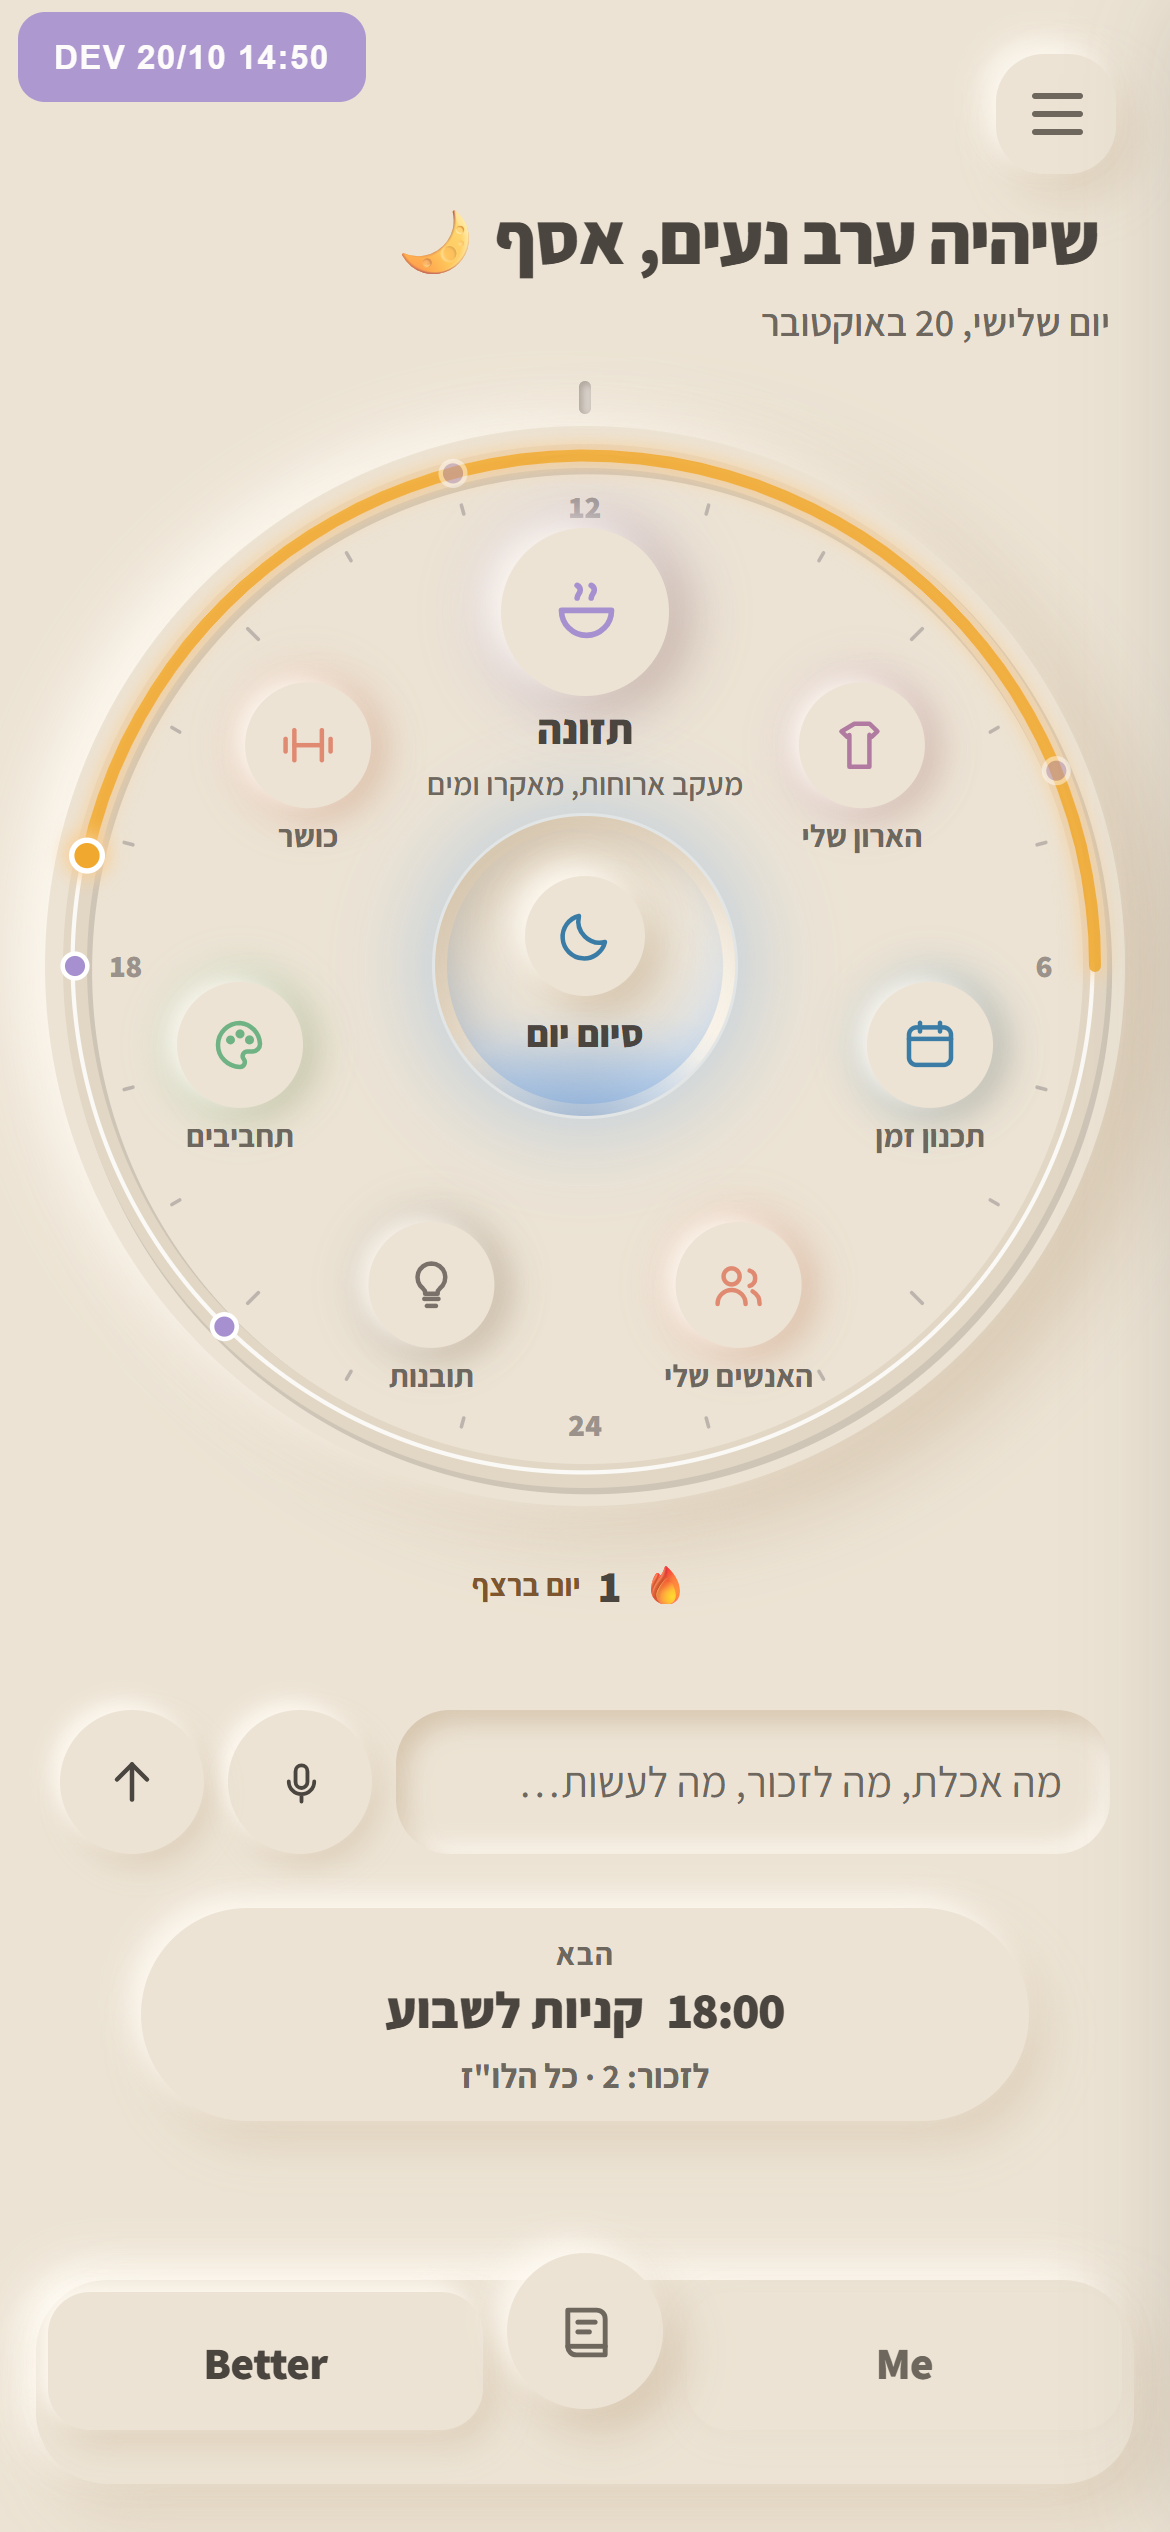
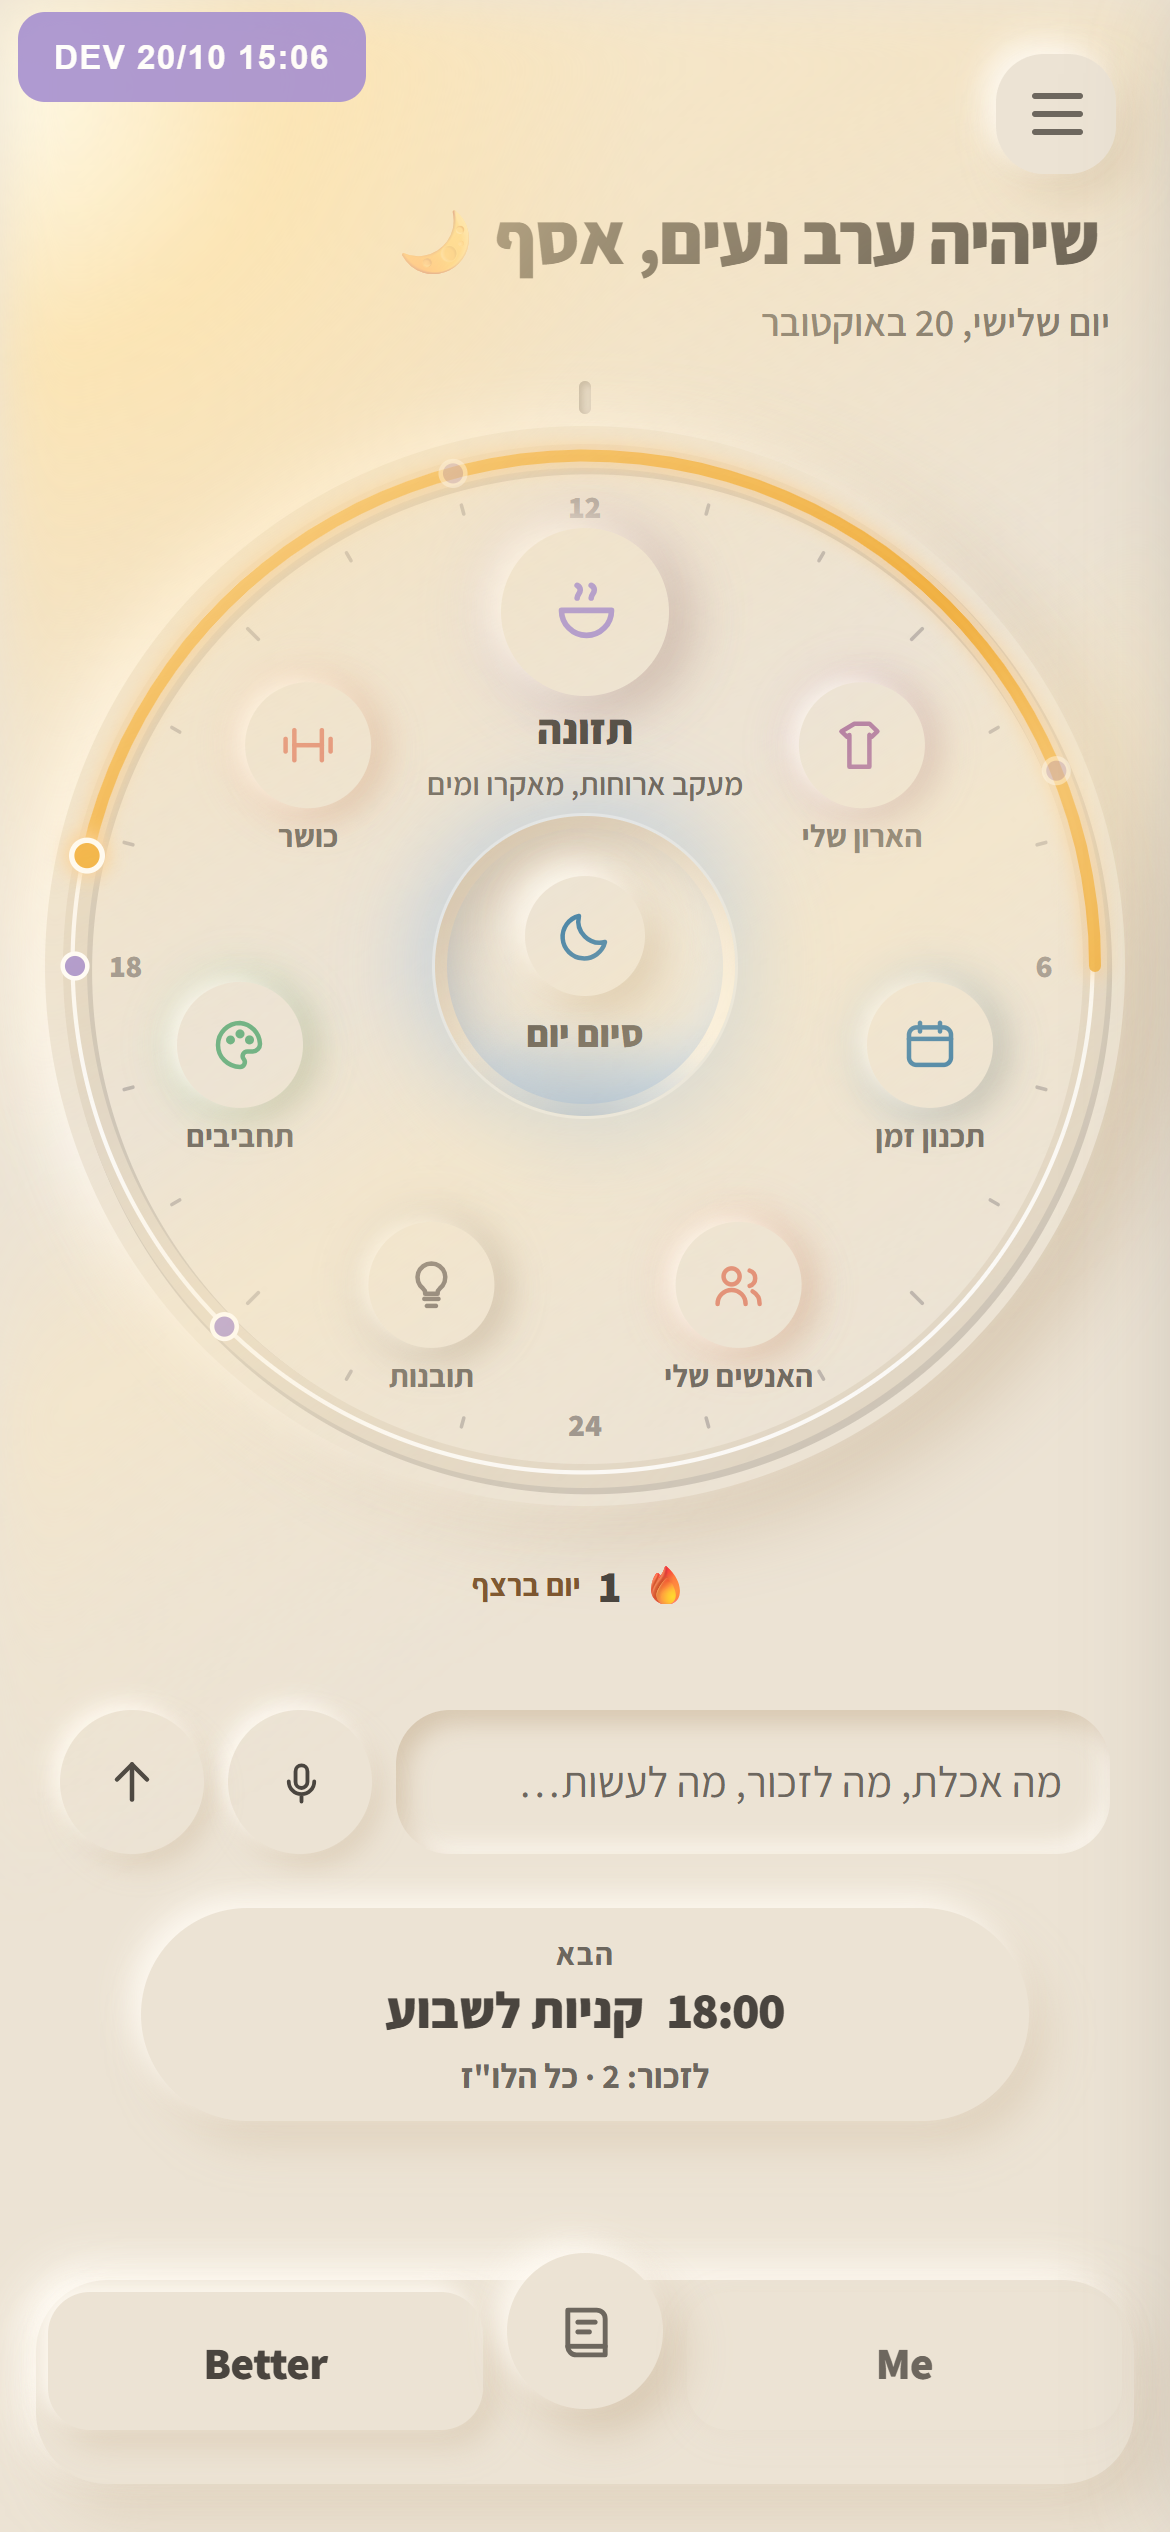
Review page: golden hour with the sun shaft

diff --git a/review/home-hours-3/index.html b/review/home-hours-3/index.html
@@ -18,7 +18,7 @@ h2{font-size:18px;margin:0 0 4px}p{margin:0 0 6px;font-size:15px}
 <div class="grid">
  <div class="card"><img src="h8.png" alt=""><div class="k">04:00–11:00</div><h2>בוקר</h2><p>לבן. האור מגיע נמוך מהצד, והצללים ארוכים לצד השני.</p></div>
  <div class="card"><img src="h13.png" alt=""><div class="k">11:00–16:00</div><h2>צהריים</h2><p>לבן. האור מגיע מלמעלה, והצללים קצרים וישרים למטה.</p></div>
- <div class="card"><img src="h17.png" alt=""><div class="k">16:00–19:00</div><h2>שעת הזהב</h2><p>החומר מתחמם לגוון חול, האור נמוך מהצד השני, והבאר מתחילה לזהור.</p></div>
+ <div class="card"><img src="h17.png" alt=""><div class="k">16:00–19:00</div><h2>שעת הזהב</h2><p>החומר מתחמם לגוון חול, קרן שמש נכנסת משמאל, והבאר מתחילה לזהור.</p></div>
  <div class="card"><img src="h22.png" alt=""><div class="k">19:00–04:00</div><h2>לילה</h2><p>חדר כהה וחם. הבאר היא המנורה ואורה נשפך על החוגה, ובכל חלק דולק אור קטן בצבע שלו.</p></div>
 </div>
 <p class="lead" style="margin-top:28px">שני דברים שכדאי לדעת: בלילה הבאר נשארת כחולה ולא ענבר כמו בהדמיה, כי אור הענבר שמור. והחושך חל רק על המסך הראשי: כשנכנסים לחלק מסוים בלילה, הוא עדיין לבן.</p>
